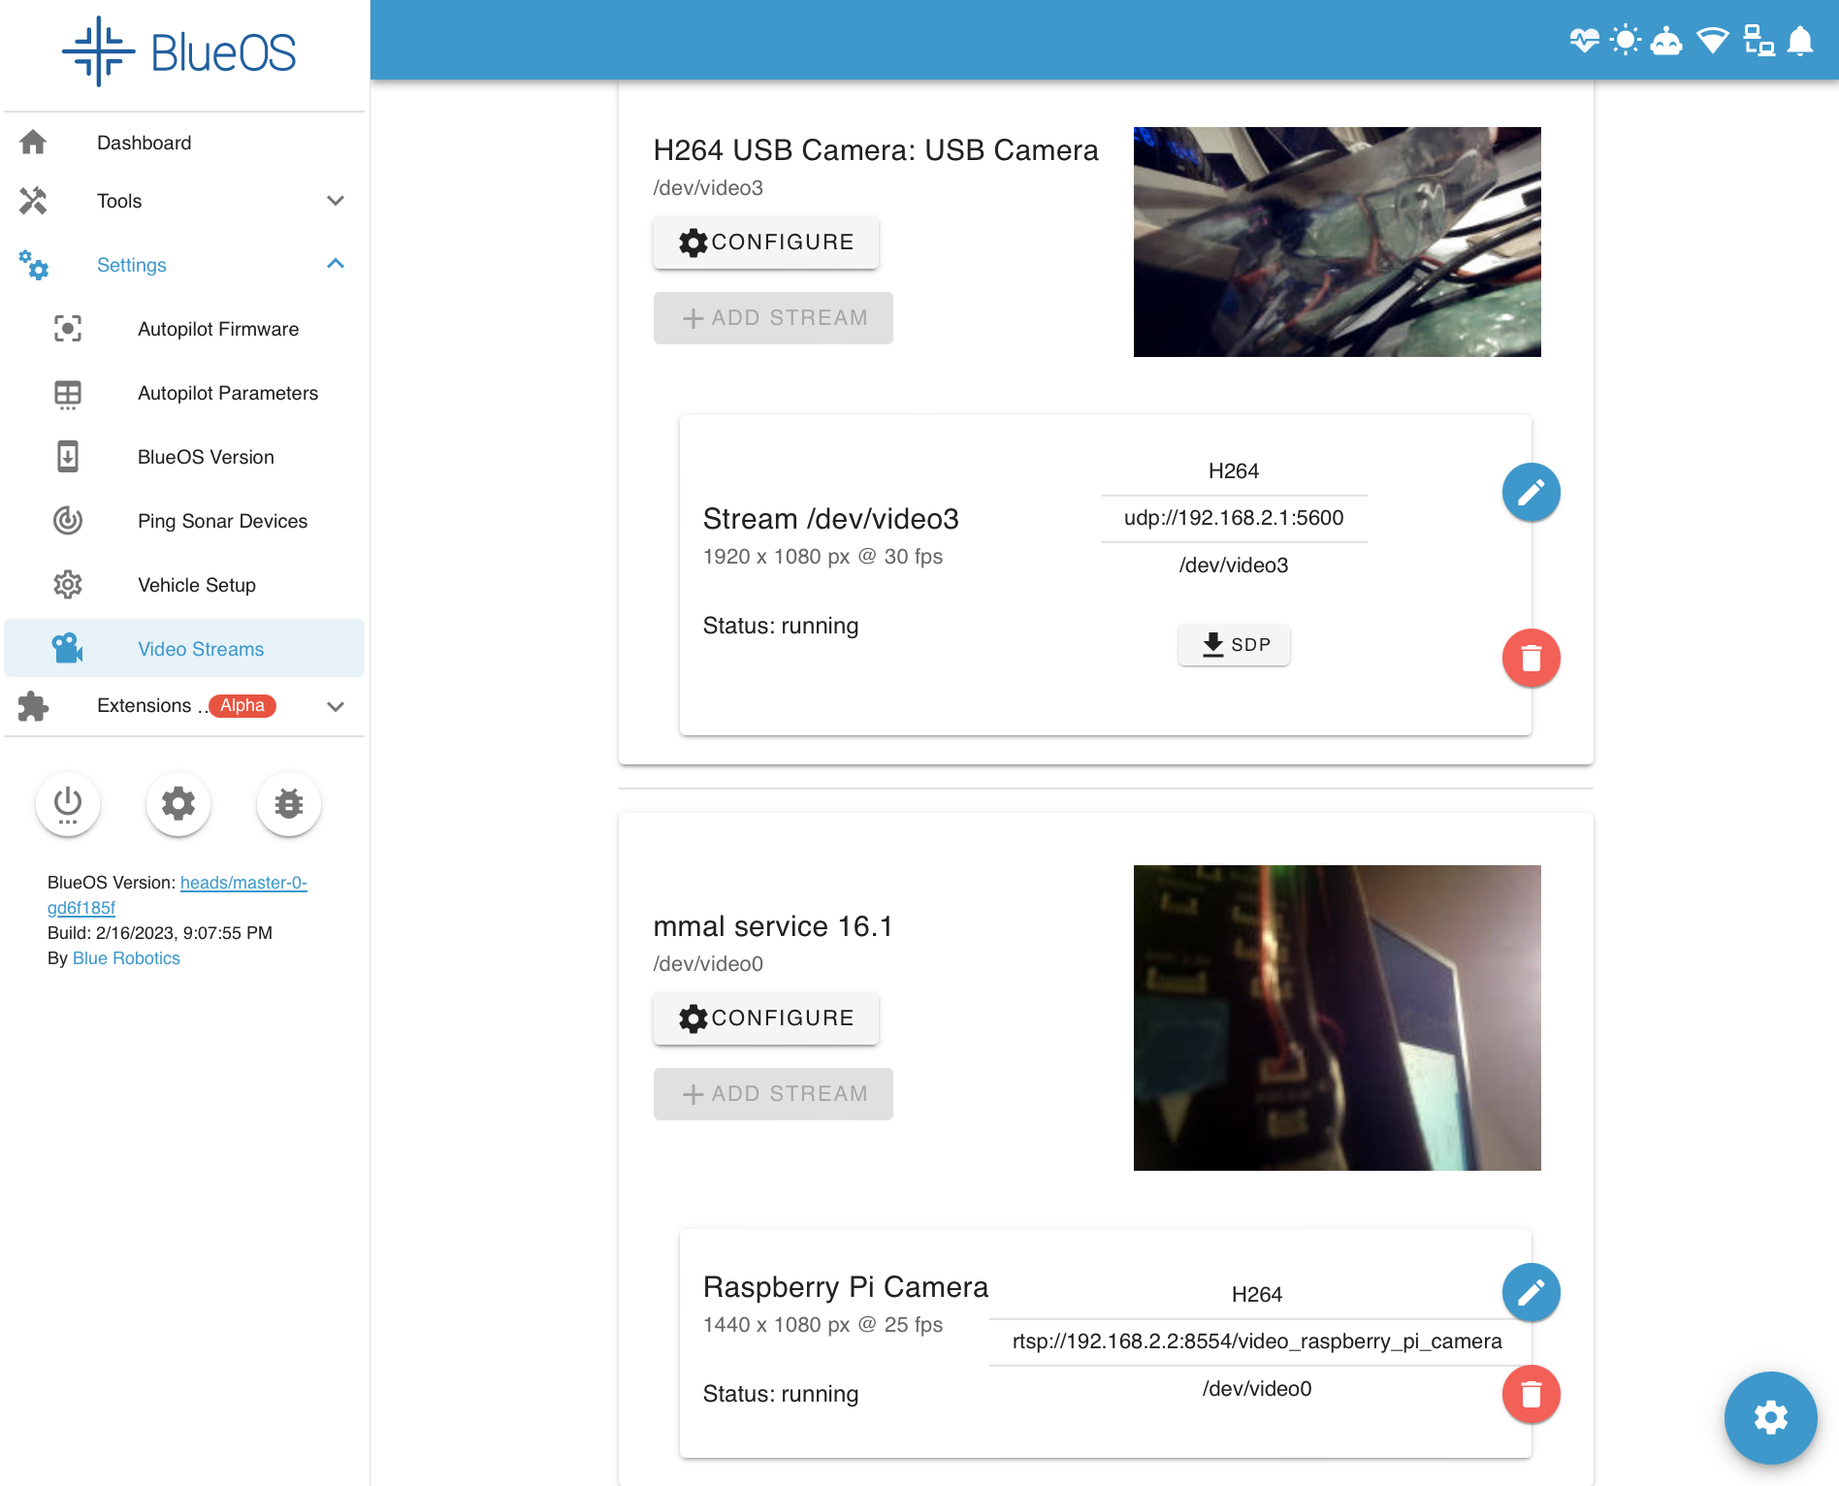
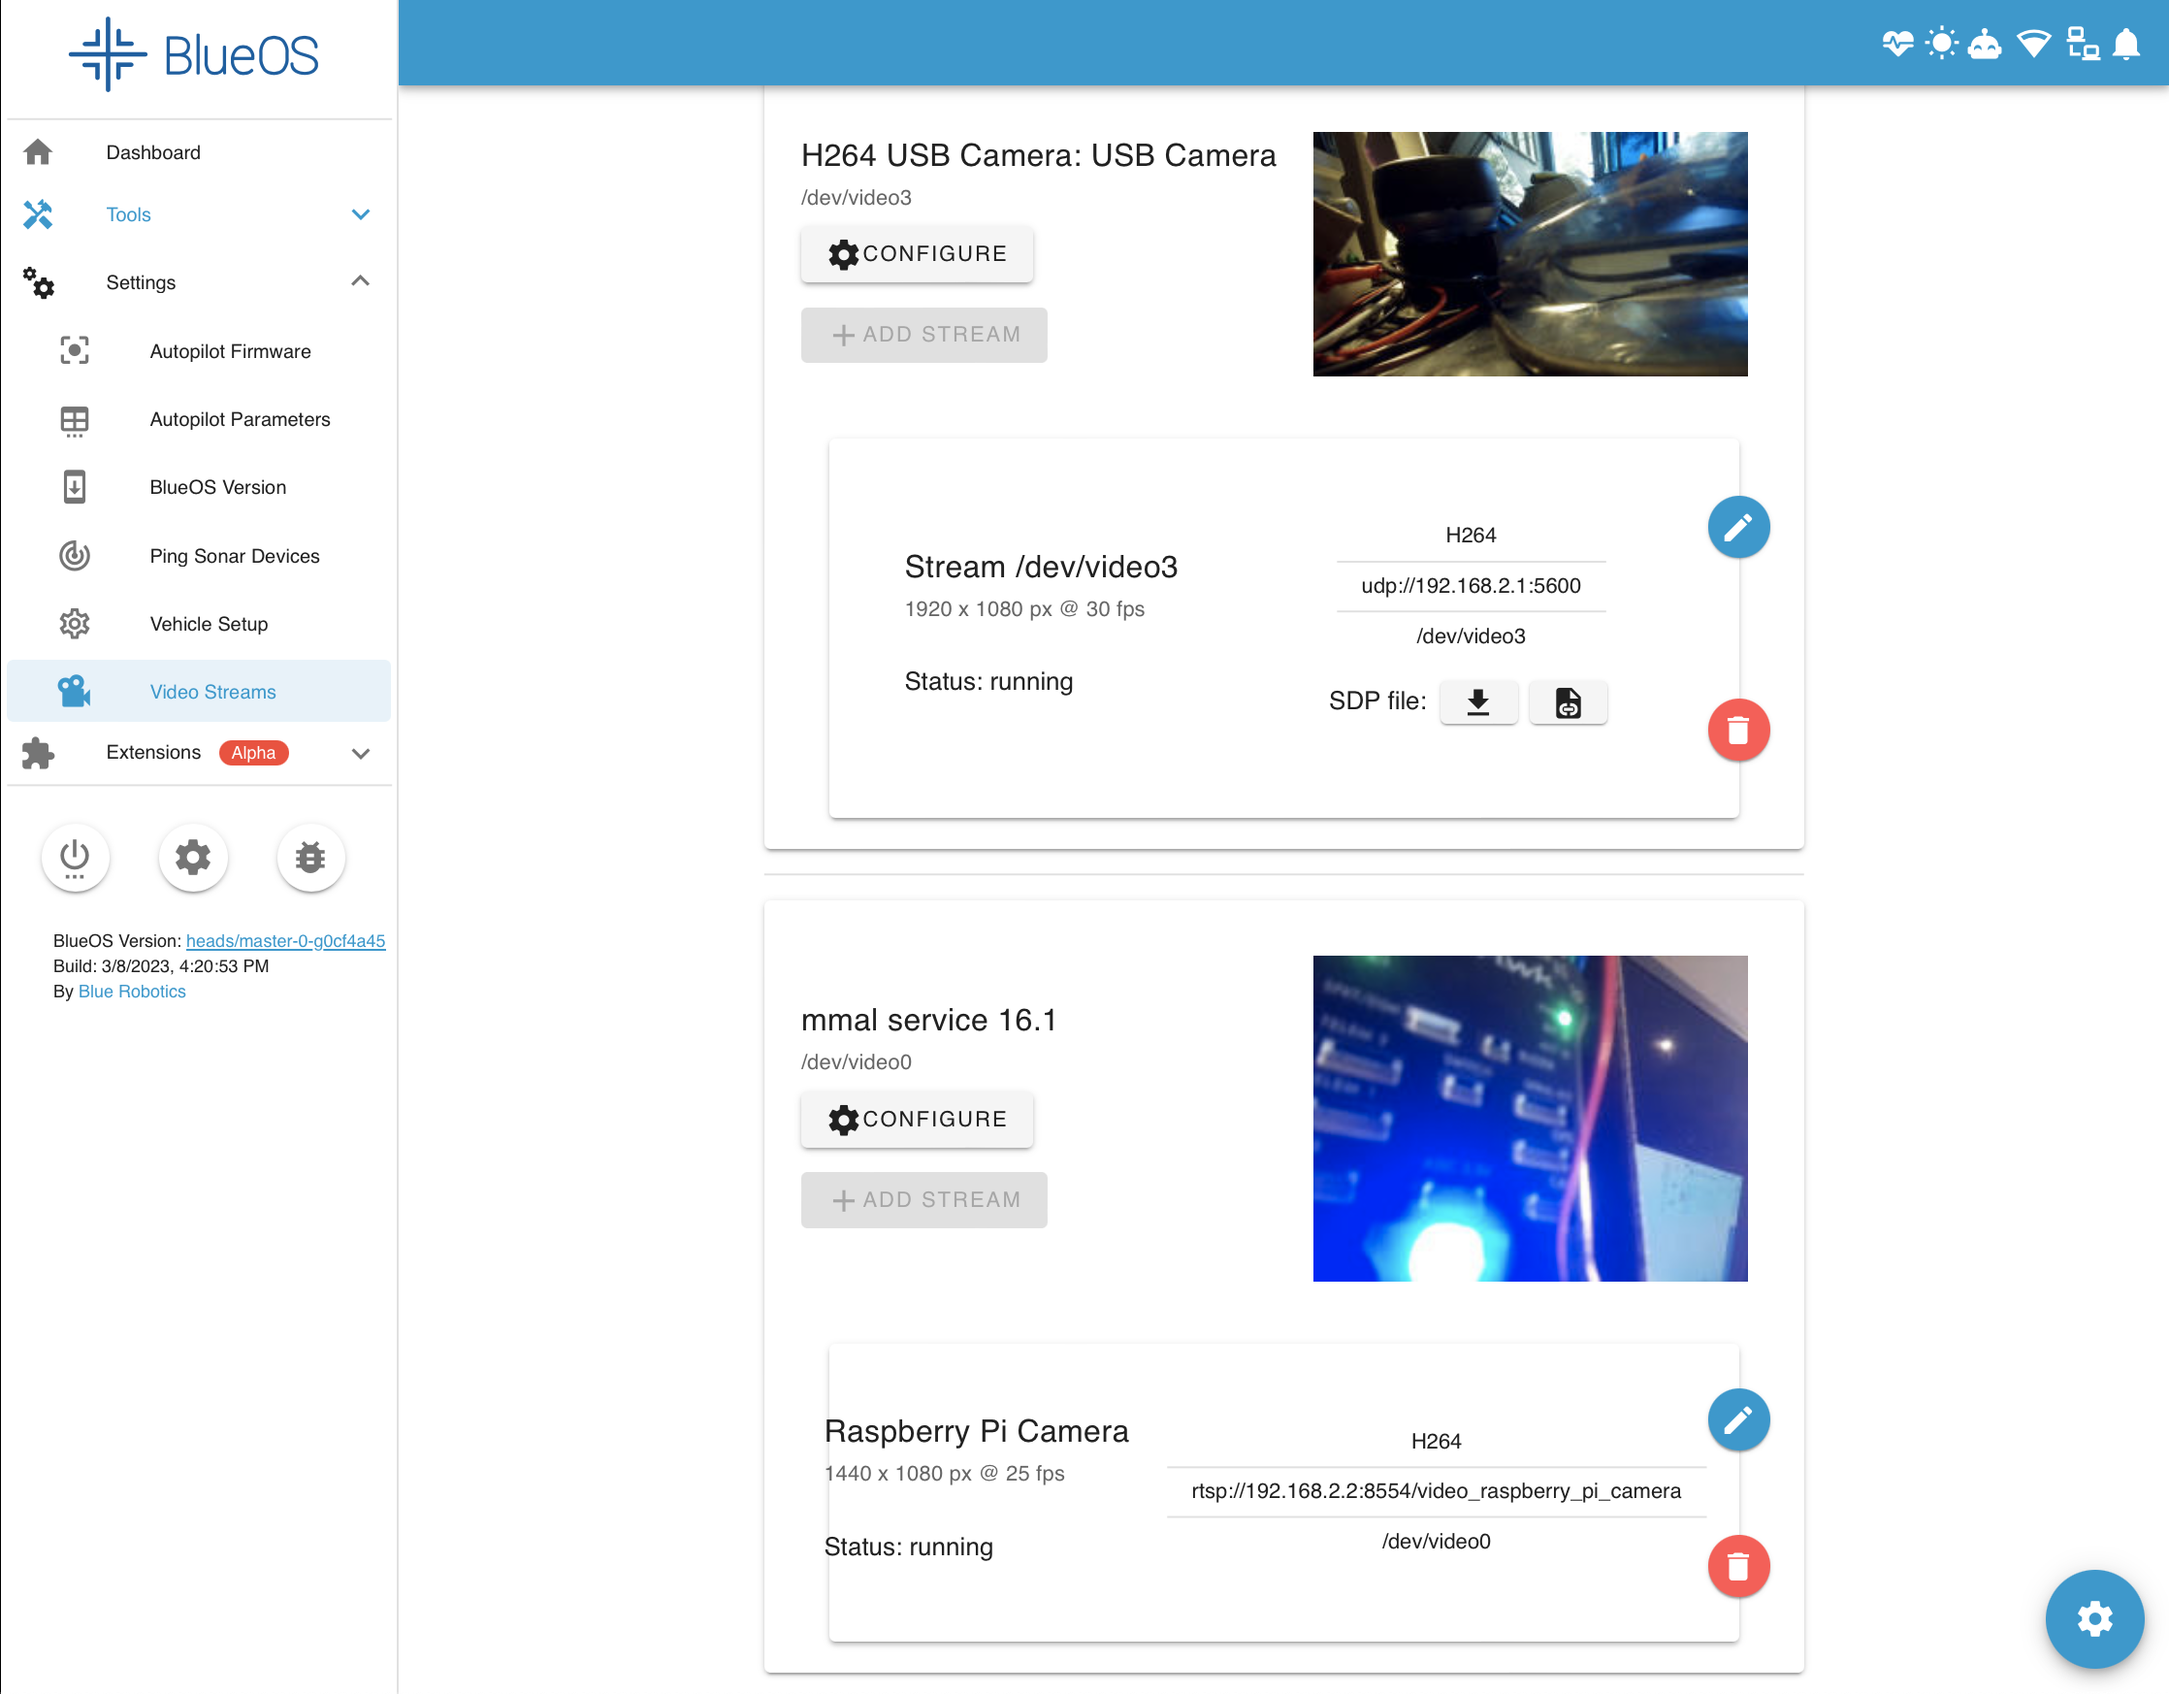
advanced-usage: video-streams: add SDP URL copy option Documents bluerobotics/BlueOS-docker#1514

diff --git a/advanced-usage/index.md b/advanced-usage/index.md
@@ -528,8 +528,8 @@ controllable in QGroundControl
        - Note that some playback applications (e.g. VLC)  treat odd-numbered ports
        as audio channels, so relevant video streams should only use even-numbered
        ports
-       - UDP streams have the option to download an SDP file to easier playback
-       on some applications `(New in 1.1)`
+       - UDP streams have the option to download an SDP file (or copy a URL to it),
+       for easier video playback in applications like VLC `(New in 1.1)`
 - Raspberry Pi cameras are supported `(New in 1.1)`
    - Detection requires turning on legacy camera support:
       1. turn on via the settings button in the buttom right corner
